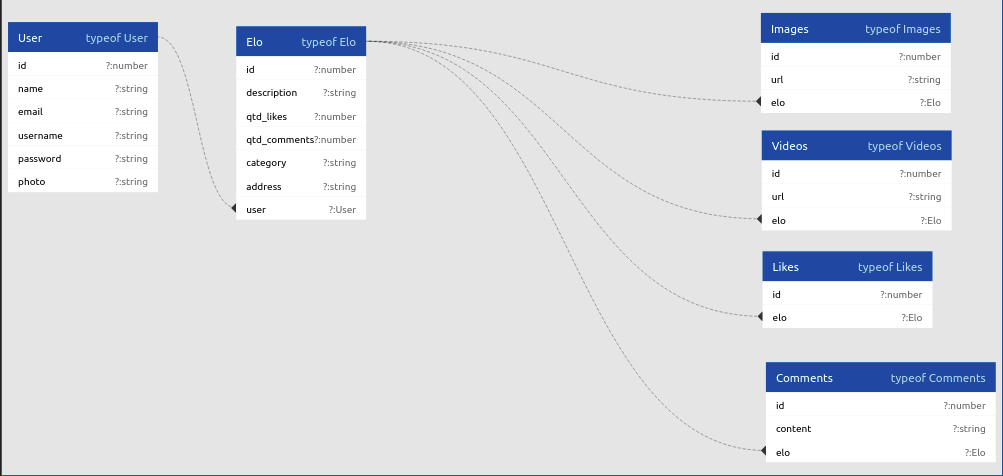
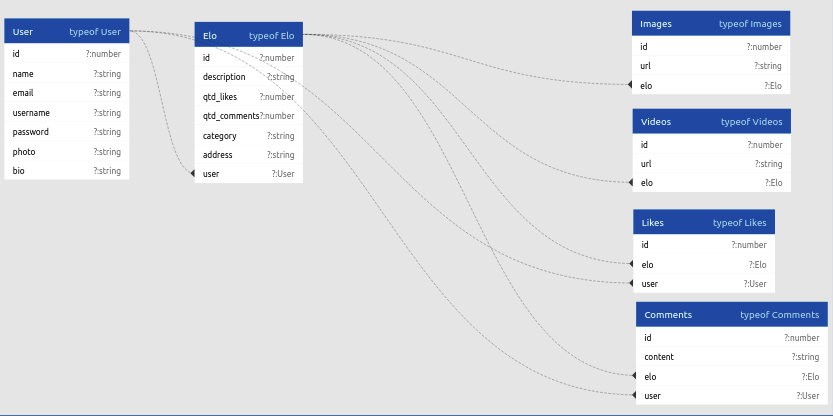
Atualizado diagrama de classe

diff --git a/images/diagrama-classe.ts b/images/diagrama-classe.ts
@@ -15,6 +15,7 @@ export class User {
     private username:string
     private password:string
     private photo:string
+    private bio: string
 }
 
 export class Images {
@@ -32,11 +33,13 @@ export class Videos {
 export class Likes {
     private id: number
     private elo: Elo
+    private user:User
 }
 
 export class Comments {
     private id: number
     private content:string
     private elo: Elo
+    private user:User
     
 }
